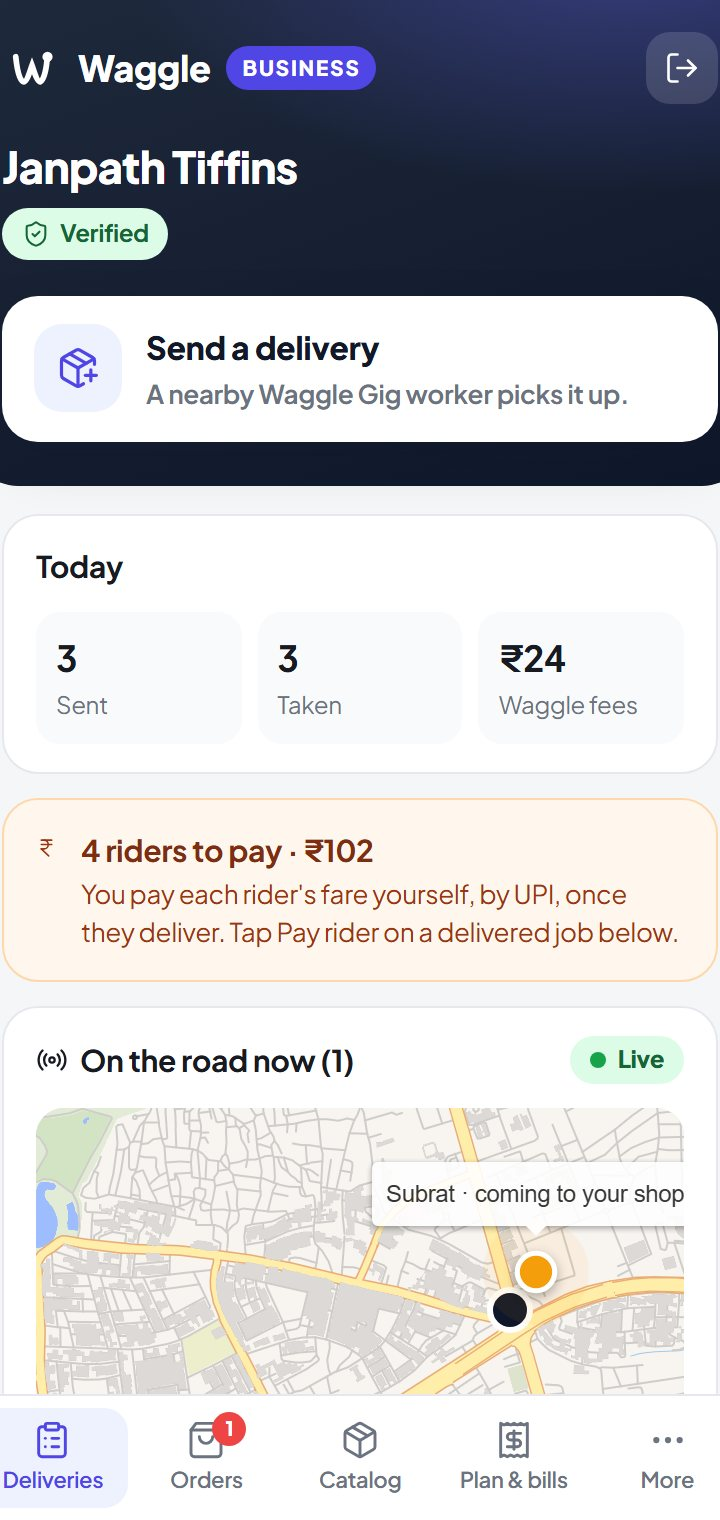
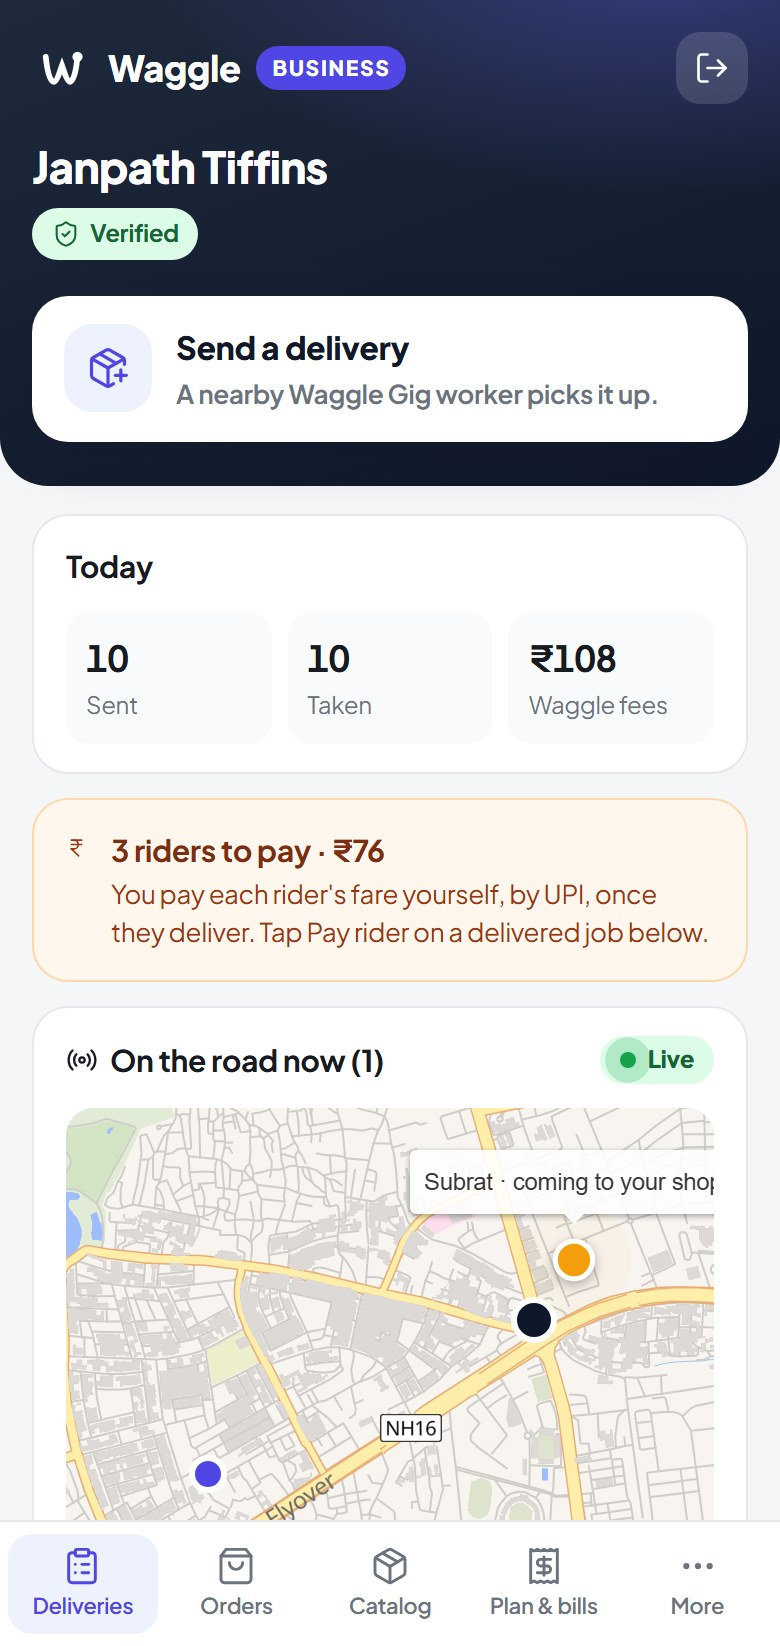
Waggle screenshots: fixed phone row, new shots with Send and ratings
The phone row held 5 phones in a 4-phone layout and stretched every other one
taller, cropping its screenshot; now 4 phones, not stretched. Screens retaken
at phone width without demo text; numbers updated to 150/150 and 93/93.

diff --git a/index.html b/index.html
@@ -291,7 +291,7 @@ section { padding: clamp(80px, 11vw, 150px) 0; position: relative; }
 .facts span { color: var(--muted); align-self: center; }
 .case-links { display: flex; flex-wrap: wrap; gap: 10px; }
 
-.strip { position: relative; display: flex; gap: 18px; justify-content: center; padding: 20px 0; }
+.strip { position: relative; display: flex; gap: 18px; justify-content: center; align-items: flex-start; padding: 20px 0; }
 .strip .phone { width: calc((100% - 54px) / 4); max-width: 200px; flex: none; }
 .strip .phone:nth-child(odd) { margin-top: 60px; }
 .strip .phone img { opacity: 1; transform: none; }
@@ -516,6 +516,8 @@ footer .wrap { display: flex; justify-content: space-between; gap: 16px; flex-wr
               <img src="shots/wg3-gig-nav.jpg" alt="Waggle Gig: turn-by-turn to the shop" loading="lazy" decoding="async">
               <img src="shots/wg3-biz-live.jpg" alt="Waggle Business: the shop's live map of its riders" loading="lazy" decoding="async">
               <img src="shots/wg3-customer-track.jpg" alt="Waggle: the customer following the rider, with the ETA" loading="lazy" decoding="async">
+              <img src="shots/wg3-send.jpg" alt="Waggle Send: the sender's pickup and delivery codes, and paying the rider by UPI" loading="lazy" decoding="async">
+              <img src="shots/wg3-rate.jpg" alt="Waggle: rating the rider after delivery" loading="lazy" decoding="async">
             </div>
           </div>
           <div class="phone-cap"><b id="phonecap">Rider: a job, live</b><span>In closed testing</span></div>
@@ -591,12 +593,14 @@ footer .wrap { display: flex; justify-content: space-between; gap: 16px; flex-wr
           <div class="case-text rv">
             <p class="case-lede">Three apps on one backend: <b>Waggle Gig</b> for riders, <b>Waggle Business</b> for shops, <b>Waggle</b> for customers.</p>
             <p>A shop's order becomes a rider's job, with turn-by-turn directions, pickup and delivery codes, and a live map the
-               customer and the shop both follow. Behind it: GST invoicing, riders paid by UPI, month-end billing on a schedule,
-               and the rider's real earnings by the hour.</p>
+               customer and the shop both follow. Customers can also send a parcel across town with Waggle Send, and every
+               delivery ends with a rating of the rider. Behind it: GST invoicing, riders paid by UPI, month-end billing on a
+               schedule, and the rider's real earnings by the hour.</p>
             <ul class="facts">
               <li><b>3</b><span>Apps sharing one Supabase backend, live between them</span></li>
-              <li><b>134/134</b><span>Attack cases on the database rules, all blocked</span></li>
-              <li><b>82/82</b><span>Feature checks passing on every schema change</span></li>
+              <li><b>150/150</b><span>Attack cases on the database rules, all blocked</span></li>
+              <li><b>93/93</b><span>Feature checks passing on every schema change</span></li>
+              <li><b>42</b><span>Steps clicked through all three apps, live: sign-up and verification, an order, a parcel, ratings</span></li>
             </ul>
             <div class="case-links">
               <a class="btn btn-primary mag" href="https://shakhtar-sankur.github.io/gigzen/waggle.html" rel="noreferrer">Visit Waggle</a>
@@ -605,11 +609,10 @@ footer .wrap { display: flex; justify-content: space-between; gap: 16px; flex-wr
             <p class="case-note">The full three-app code is private to Gigzen; available on request.</p>
           </div>
           <div class="strip" data-drift>
-            <div class="phone"><div class="screen"><img src="shots/wg3-gig-home.jpg" alt="Waggle Gig: online, today's earnings, a zone alert and a job offer" loading="lazy" decoding="async"></div></div>
-            <div class="phone"><div class="screen"><img src="shots/wg3-gig-nav.jpg" alt="Waggle Gig: the job in hand with turn-by-turn to the shop" loading="lazy" decoding="async"></div></div>
-            <div class="phone"><div class="screen"><img src="shots/wg3-gig-earnings.jpg" alt="Waggle Gig: earnings per hour and per delivery" loading="lazy" decoding="async"></div></div>
-            <div class="phone"><div class="screen"><img src="shots/wg3-biz-live.jpg" alt="Waggle Business: riders to pay and the live map" loading="lazy" decoding="async"></div></div>
+            <div class="phone"><div class="screen"><img src="shots/wg3-gig-nav.jpg" alt="Waggle Gig: the job in hand, with turn-by-turn to the shop" loading="lazy" decoding="async"></div></div>
+            <div class="phone"><div class="screen"><img src="shots/wg3-biz-live.jpg" alt="Waggle Business: today's deliveries, riders to pay and the live map" loading="lazy" decoding="async"></div></div>
             <div class="phone"><div class="screen"><img src="shots/wg3-customer-track.jpg" alt="Waggle: the customer's delivery code, ETA and rider on the road" loading="lazy" decoding="async"></div></div>
+            <div class="phone"><div class="screen"><img src="shots/wg3-send.jpg" alt="Waggle Send: pickup and delivery codes, and paying the rider by UPI" loading="lazy" decoding="async"></div></div>
           </div>
         </div>
       </article>
@@ -696,7 +699,7 @@ footer .wrap { display: flex; justify-content: space-between; gap: 16px; flex-wr
              Android artefact and the public record of what was tested.</p>
           <ul>
             <li>Built three Android apps end to end on one Supabase backend, with the database rules
-                checked by a <strong>134-case attack suite, all blocked</strong>:</li>
+                checked by a <strong>150-case attack suite, all blocked</strong>:</li>
             <li><strong>Waggle Gig</strong> (riders): real-time job offers with a 45-second window,
                 dispatch decided first-accept-wins inside the database, voice turn-by-turn with
                 rerouting and a snap-to-road algorithm, and earnings per hour.</li>
@@ -1121,7 +1124,7 @@ footer .wrap { display: flex; justify-content: space-between; gap: 16px; flex-wr
   $("#replay").addEventListener("click", runTerm);
 
   /* ── phone: cycle screens ── */
-  var shots = $$("#phone img"), caps = ["Rider: a job, live", "Rider: turn by turn", "Shop: riders on the map", "Customer: rider on the way"], si = 0;
+  var shots = $$("#phone img"), caps = ["Rider: a job, live", "Rider: turn by turn", "Shop: riders on the map", "Customer: rider on the way", "Send: a parcel across town", "Customer: rating the rider"], si = 0;
   var phonecap = $("#phonecap");
   if (!reduce) setInterval(function () {
     if (document.hidden) return;
